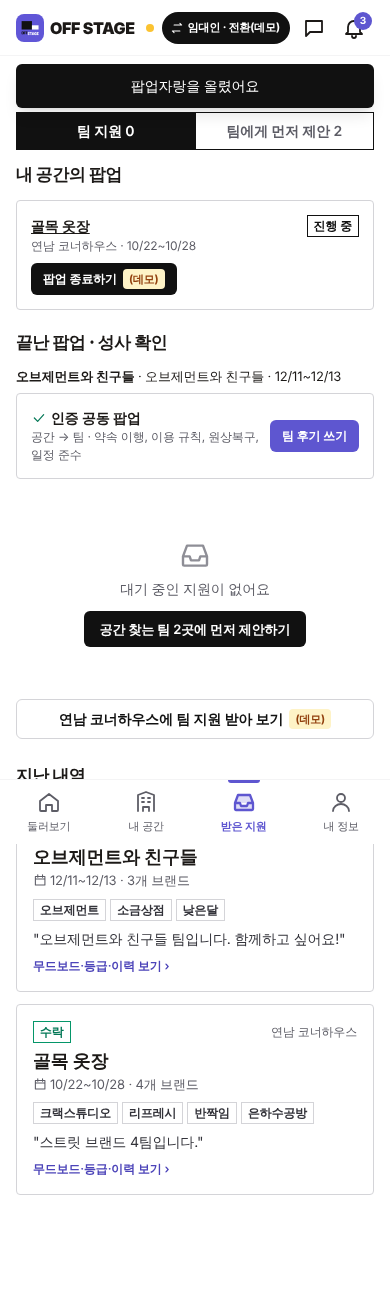
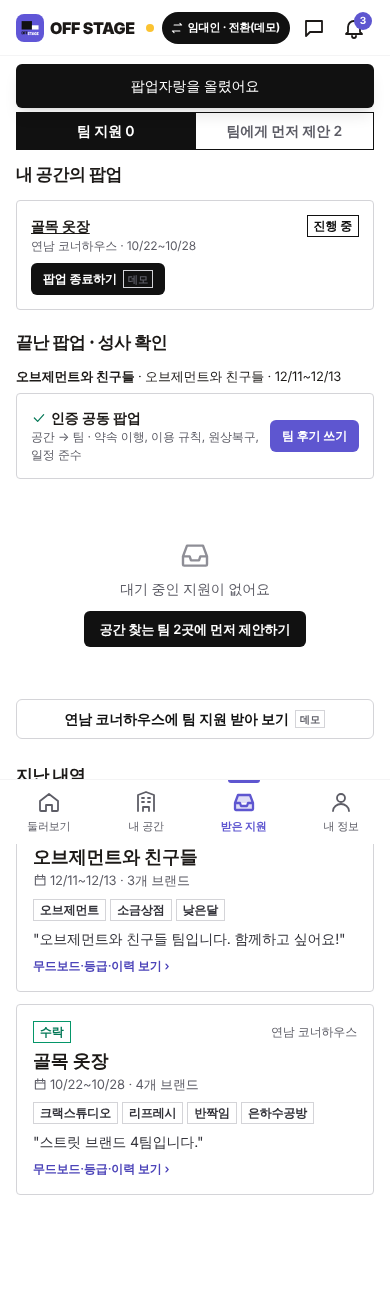
설명조 부제 줄이고, 데모 표시를 작은 회색 표시로
Claude-Session: https://claude.ai/code/session_0127PgxmrWax7HLBrSWBod79

diff --git a/src/screens/Recruit.tsx b/src/screens/Recruit.tsx
@@ -89,7 +89,6 @@ export function RecruitsTab({ initial }: { initial?: '찜' }) {
   return (
     <div>
       <ScreenTitle right={<Button size="sm" onClick={() => guard(() => navigate({ name: 'recruitNew' }))}>+ 모집글 쓰기</Button>}>같이 열기</ScreenTitle>
-      <p className="px-4 text-[13px] text-ink-500 -mt-1 mb-2">함께 팝업을 열 팀원을 모아요. 정원이 차면 자동으로 팀이 만들어져요.</p>
       <div className="flex gap-1.5 overflow-x-auto no-scrollbar px-4 pb-2">
         {(['전체', ...(brand ? (['찜'] as const) : []), '모집 중', '협의 중', '마감'] as const).map((s) => (
           <Chip key={s} active={st === s} onClick={() => setSt(s)}>{s === '찜' ? <><Ic n="heart" />찜 {saved.length}</> : s}</Chip>
@@ -109,7 +108,7 @@ export function RecruitsTab({ initial }: { initial?: '찜' }) {
       {brand && picks.length > 0 && st === '전체' && region === '전체' && (
         <section className="mt-2 mb-4">
           <h2 className="px-4 text-[17px] font-extrabold tracking-tight">내 브랜드와 맞는 모집글</h2>
-          <p className="px-4 text-xs text-ink-500 mt-0.5 mb-2.5">빈자리 카테고리, 팝업 가능 기간, 모집자와의 무드로 골랐어요</p>
+          <div className="mb-2.5" />
           <div className="flex gap-2.5 overflow-x-auto no-scrollbar px-4 pb-1">
             {picks.map((x) => (
               <div key={x.r.id} className={picks.length === 1 ? 'w-full' : 'w-[300px] shrink-0'}><RecruitCard db={db} r={x.r} reasons={x.reasons} /></div>

diff --git a/src/components/ui.tsx b/src/components/ui.tsx
@@ -122,7 +122,7 @@ export function Tag({ children, tone = 'gray' }: { children: ReactNode; tone?: '
 }
 
 export function Demo({ children = '데모' }: { children?: ReactNode }) {
-  return <span className="inline-flex items-center px-1.5 h-5 rounded bg-amber-100 text-amber-800 text-[11px] font-bold align-middle">({children})</span>;
+  return <span className="inline-flex items-center px-1 h-[18px] border border-ink-300 text-ink-500 text-[10px] font-semibold align-middle tracking-wide">{children}</span>;
 }
 
 const gradeStyle: Record<Grade, { cls: string; icon: string }> = {

diff --git a/src/screens/Explore.tsx b/src/screens/Explore.tsx
@@ -74,7 +74,6 @@ function BrandFeed({ onMore }: { onMore: () => void }) {
             <h2 className="text-[17px] font-extrabold tracking-tight">
               궁합이 높은 브랜드
             </h2>
-            <p className="text-xs text-ink-500 mt-0.5">무드·가격대·고객층은 비슷하고, 카테고리는 다를수록 잘 맞아요</p>
           </div>
           <div className="flex gap-2.5 overflow-x-auto no-scrollbar px-4 pb-1">
             {recs.map((r) => (
